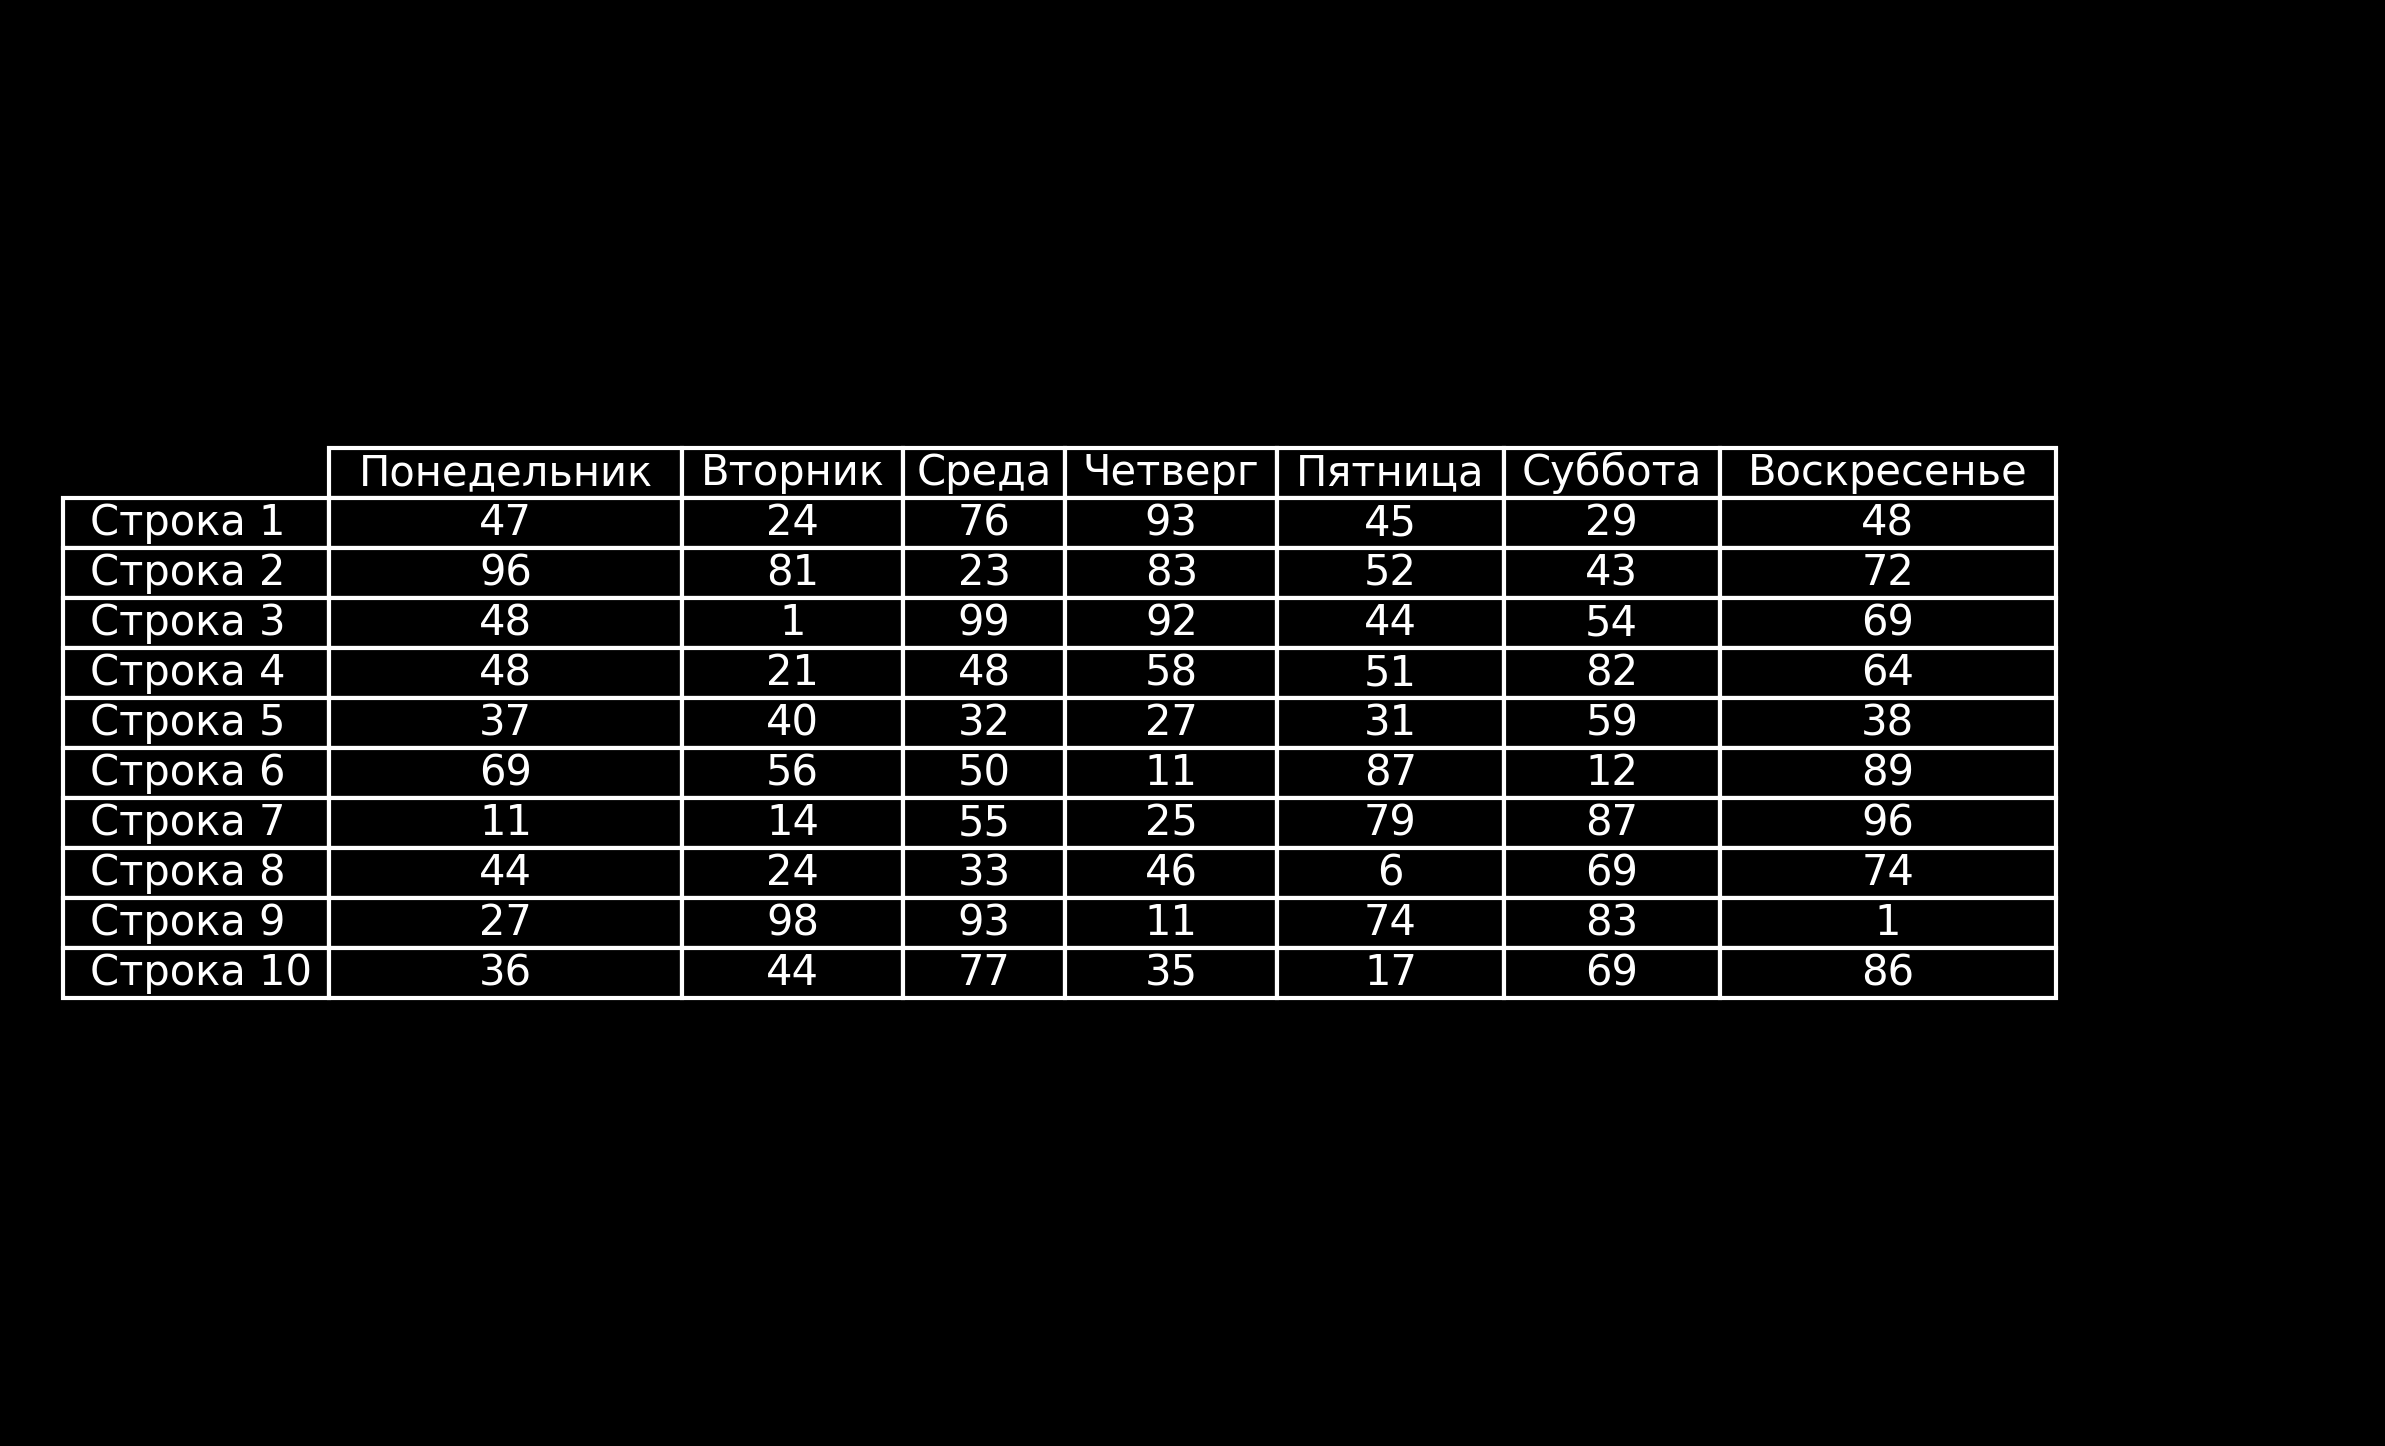
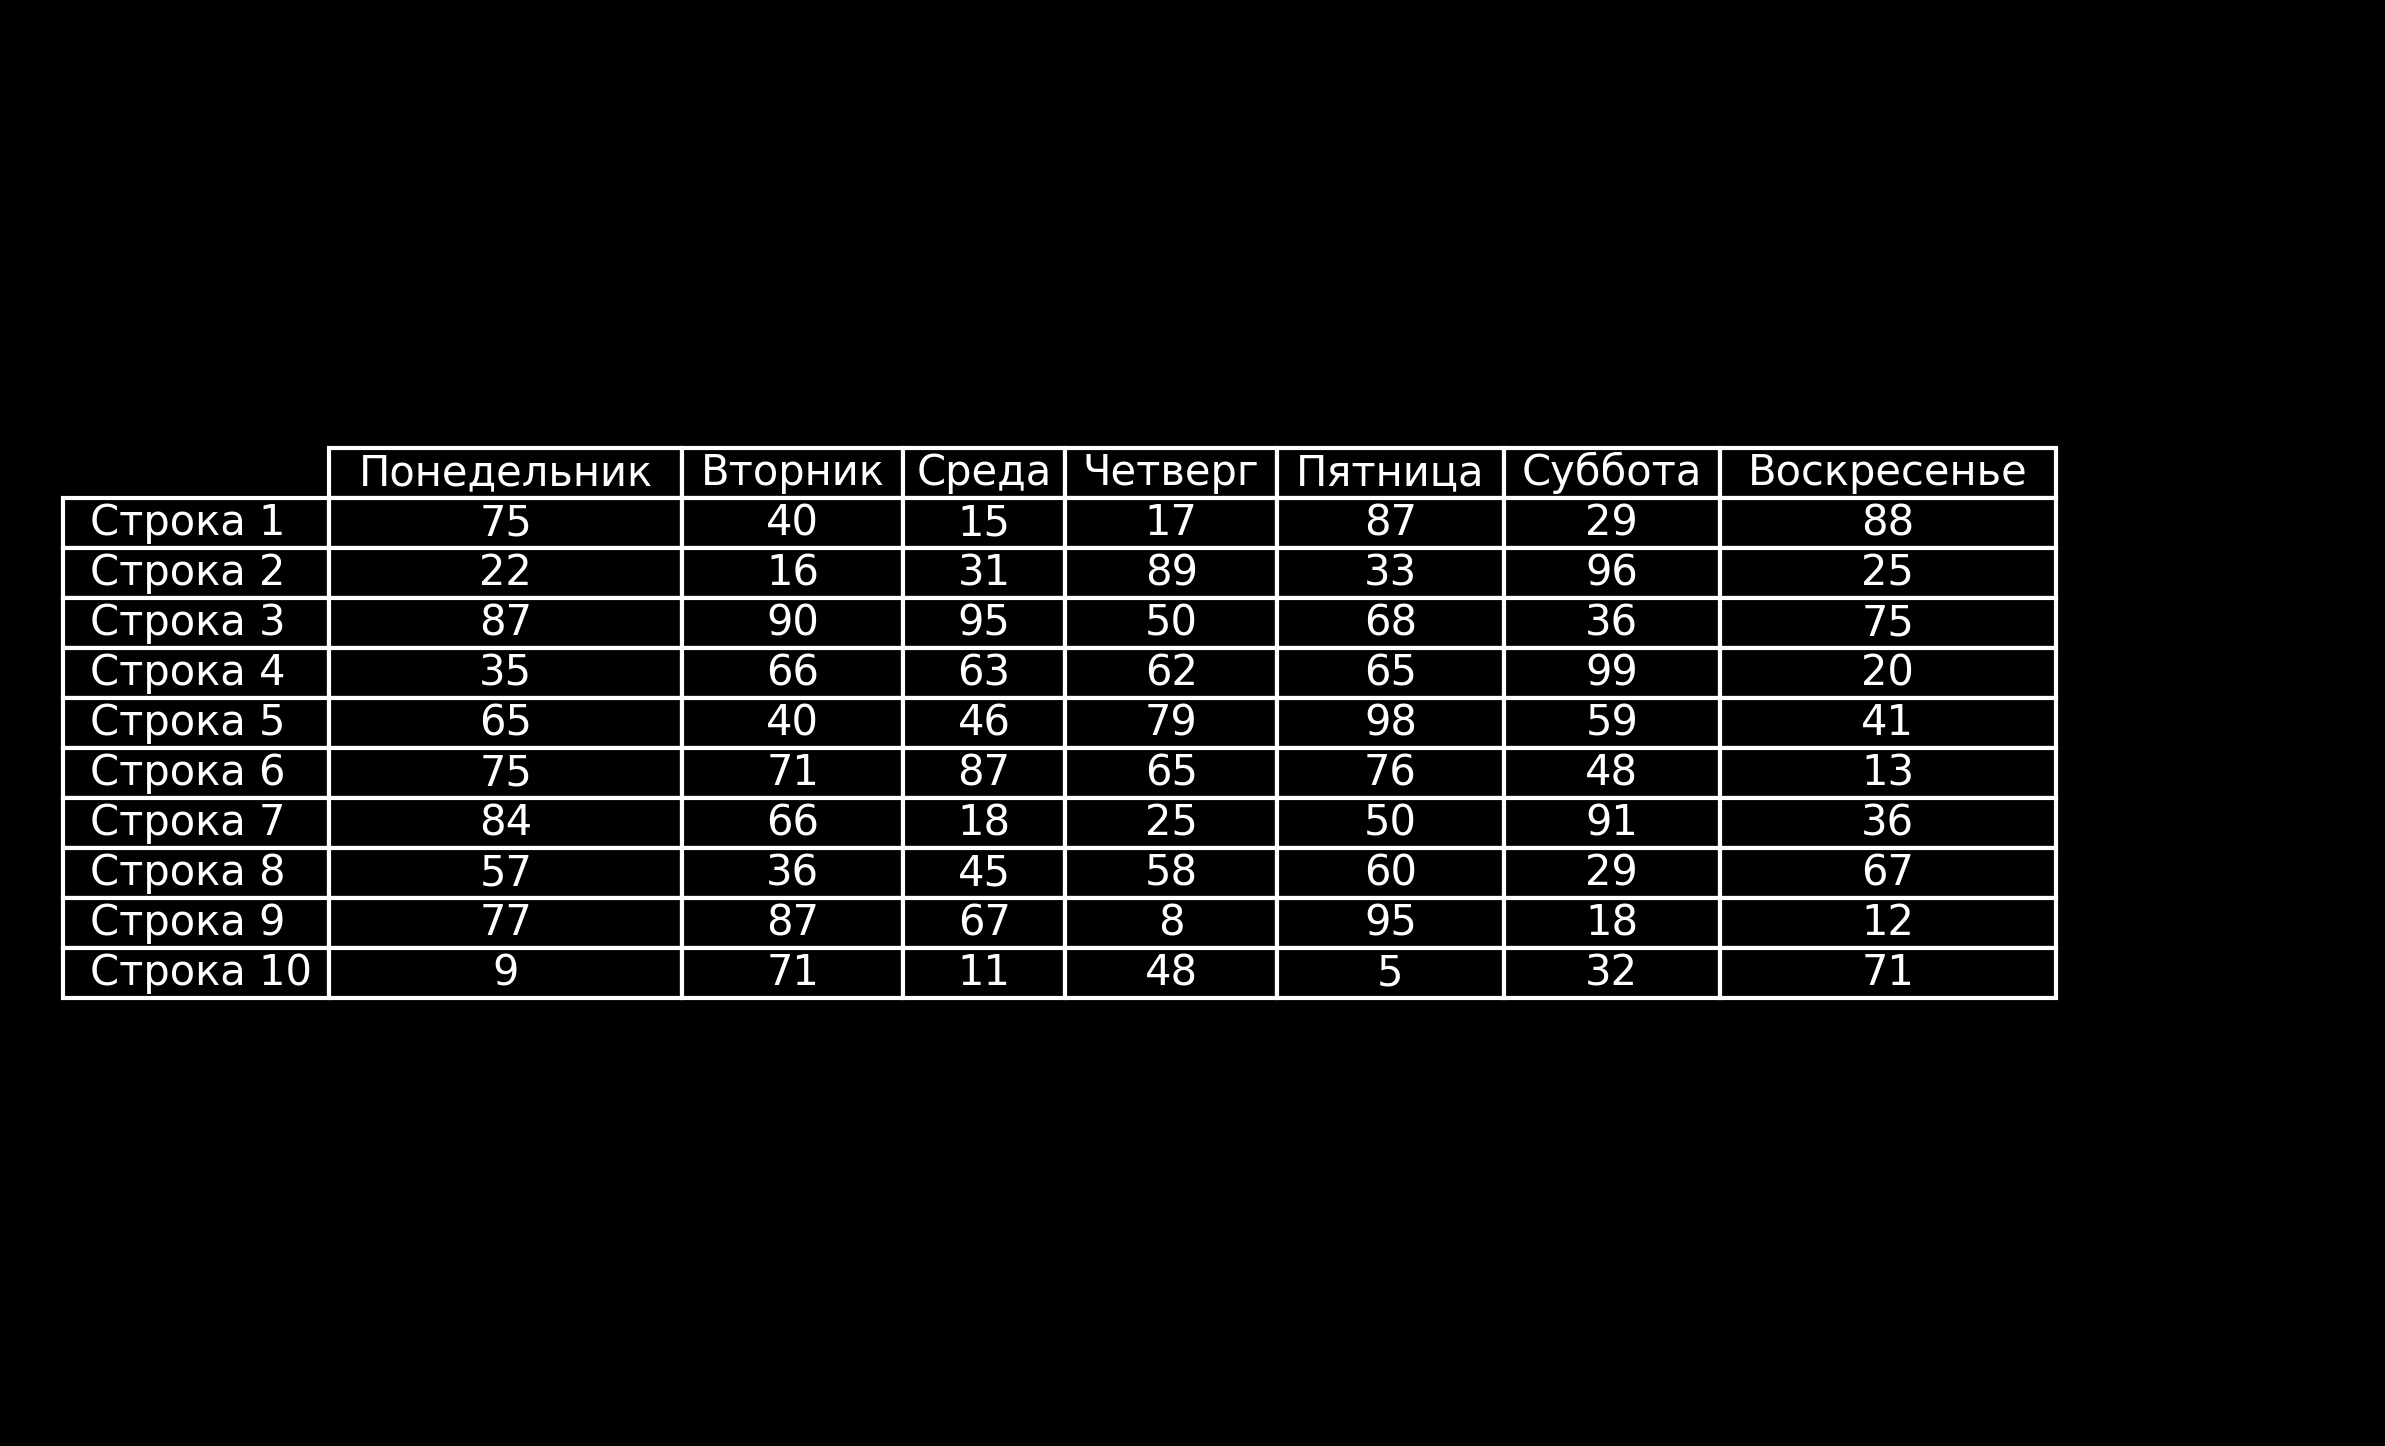
DB SCHEDULE WORKS, TABLE ISSUES

diff --git a/USERS_DATA_DB_WORK_FILE.py b/USERS_DATA_DB_WORK_FILE.py
@@ -1,0 +1,157 @@
+import sqlite3
+import os
+import matplotlib.pyplot as plt
+from matplotlib.table import Table
+from matplotlib.ticker import MaxNLocator
+from datetime import datetime
+from PIL import Image, ImageDraw, ImageFont
+
+# Путь к базе данных и изображениям
+db_path = './User_data/schedules.db'
+pic_path = './User_data/pic'
+
+# Создание директории для изображений, если ее нет
+os.makedirs(pic_path, exist_ok=True)
+
+
+# Функция для создания новой таблицы для пользователя
+def new_table(username, user_id, timestamp):
+    conn = sqlite3.connect(db_path)
+    cursor = conn.cursor()
+
+    # Создание таблицы для нового пользователя, если она не существует
+    cursor.execute(f'''
+    CREATE TABLE IF NOT EXISTS user_{user_id} (
+        id INTEGER PRIMARY KEY AUTOINCREMENT,
+        username TEXT,
+        timestamp TEXT,
+        monday TEXT,
+        tuesday TEXT,
+        wednesday TEXT,
+        thursday TEXT,
+        friday TEXT,
+        saturday TEXT,
+        sunday TEXT
+    )
+    ''')
+
+    # Вставка записи в таблицу с пользователем
+    cursor.execute(f'''
+    INSERT INTO user_{user_id} (username, timestamp, monday, tuesday, wednesday, thursday, friday, saturday, sunday)
+    VALUES (?, ?, NULL, NULL, NULL, NULL, NULL, NULL, NULL)
+    ''', (username, timestamp))
+
+    conn.commit()
+    conn.close()
+
+
+# Функция для добавления события
+def add_event(user_id, day, time, notification_status=True):
+    conn = sqlite3.connect(db_path)
+    cursor = conn.cursor()
+
+    # Добавление события в нужный день
+    cursor.execute(f'''
+    UPDATE user_{user_id}
+    SET {day} = ?
+    WHERE id = (SELECT MAX(id) FROM user_{user_id})
+    ''', (f'{time} - Notification: {notification_status}',))
+
+    conn.commit()
+    conn.close()
+
+
+# Функция для удаления события
+def remove_event(user_id, day, time):
+    conn = sqlite3.connect(db_path)
+    cursor = conn.cursor()
+
+    # Удаление события из таблицы
+    cursor.execute(f'''
+    UPDATE user_{user_id}
+    SET {day} = NULL
+    WHERE id = (SELECT MAX(id) FROM user_{user_id}) AND {day} LIKE ?
+    ''', (f'%{time}%',))
+
+    conn.commit()
+    conn.close()
+
+
+# Функция для получения таблицы и рисования на изображении
+def get_table(user_id, day="ALL"):
+    conn = sqlite3.connect(db_path)
+    cursor = conn.cursor()
+
+    # Проверка существования таблицы
+    cursor.execute(f"SELECT name FROM sqlite_master WHERE type='table' AND name='user_{user_id}'")
+    if not cursor.fetchone():
+        print("Table does not exist for user:", user_id)
+        return
+
+    # Получение данных из таблицы
+    cursor.execute(f"SELECT * FROM user_{user_id} WHERE id = (SELECT MAX(id) FROM user_{user_id})")
+    row = cursor.fetchone()
+
+    if not row:
+        print("No data found for user:", user_id)
+        return
+
+    # Проверка корректности параметра day
+    if day != "ALL" and day not in ["monday", "tuesday", "wednesday", "thursday", "friday", "saturday", "sunday"]:
+        print("Invalid day. Please specify a valid day or 'ALL'.")
+        return
+
+    # Рисование таблицы
+    fig, ax = plt.subplots(figsize=(8, 6))
+    ax.axis('off')
+    table = Table(ax, bbox=[0, 0, 1, 1])
+
+    # Добавление столбцов и строк
+    days_of_week = ['monday', 'tuesday', 'wednesday', 'thursday', 'friday', 'saturday', 'sunday']
+    data = [row[3:], ]  # Извлекаем только данные о расписании, пропуская id, username, timestamp
+
+    for i, col in enumerate(['Day', 'Monday', 'Tuesday', 'Wednesday', 'Thursday', 'Friday', 'Saturday', 'Sunday']):
+        table.add_cell(0, i, 1.0 / 8, 0.1, text=col, loc='center', facecolor='white')
+
+    for i, event in enumerate(data[0]):
+        # Проверка на None
+        if event is None:
+            event = ""  # Если события нет, оставляем пустое место
+        table.add_cell(i + 1, 0, 1.0 / 8, 0.1, text=days_of_week[i].capitalize(), loc='center', facecolor='white')
+        table.add_cell(i + 1, 1, 1.0 / 8, 0.1, text=event, loc='center', facecolor='black', edgecolor='white')
+
+    ax.add_table(table)
+    plt.tight_layout()
+
+    # Сохранение таблицы
+    timestamp = row[2]
+    username = row[1]
+    img_filename = f"{pic_path}/{username}_{user_id}_{timestamp}_table.png"
+    plt.savefig(img_filename, bbox_inches='tight', pad_inches=0.1)
+    plt.close()
+
+    # Статистика по дням
+    time_spent = {day: 0 for day in days_of_week}
+    for i, event in enumerate(data[0]):
+        if event:
+            time_spent[days_of_week[i]] += 1  # Примерное время в часах для каждого дня
+
+    # Рисование графика
+    fig, ax = plt.subplots(figsize=(8, 6))
+    ax.bar(time_spent.keys(), time_spent.values(), color='skyblue')
+    ax.set_title(f"Time Spent per Day for User {user_id}")
+    ax.set_xlabel("Days")
+    ax.set_ylabel("Events Scheduled")
+    ax.yaxis.set_major_locator(MaxNLocator(integer=True))
+
+    # Сохранение графика
+    graph_filename = f"{pic_path}/{username}_{user_id}_{timestamp}_graph.png"
+    plt.savefig(graph_filename, bbox_inches='tight', pad_inches=0.1)
+    plt.close()
+
+    conn.close()
+
+# Пример использования:
+new_table('user1', 12345, '2025-01-21')
+add_event(12345, 'monday', '10:00', True)
+get_table(12345, 'ALL')  # Визуализирует таблицу и график для пользователя с id 12345
